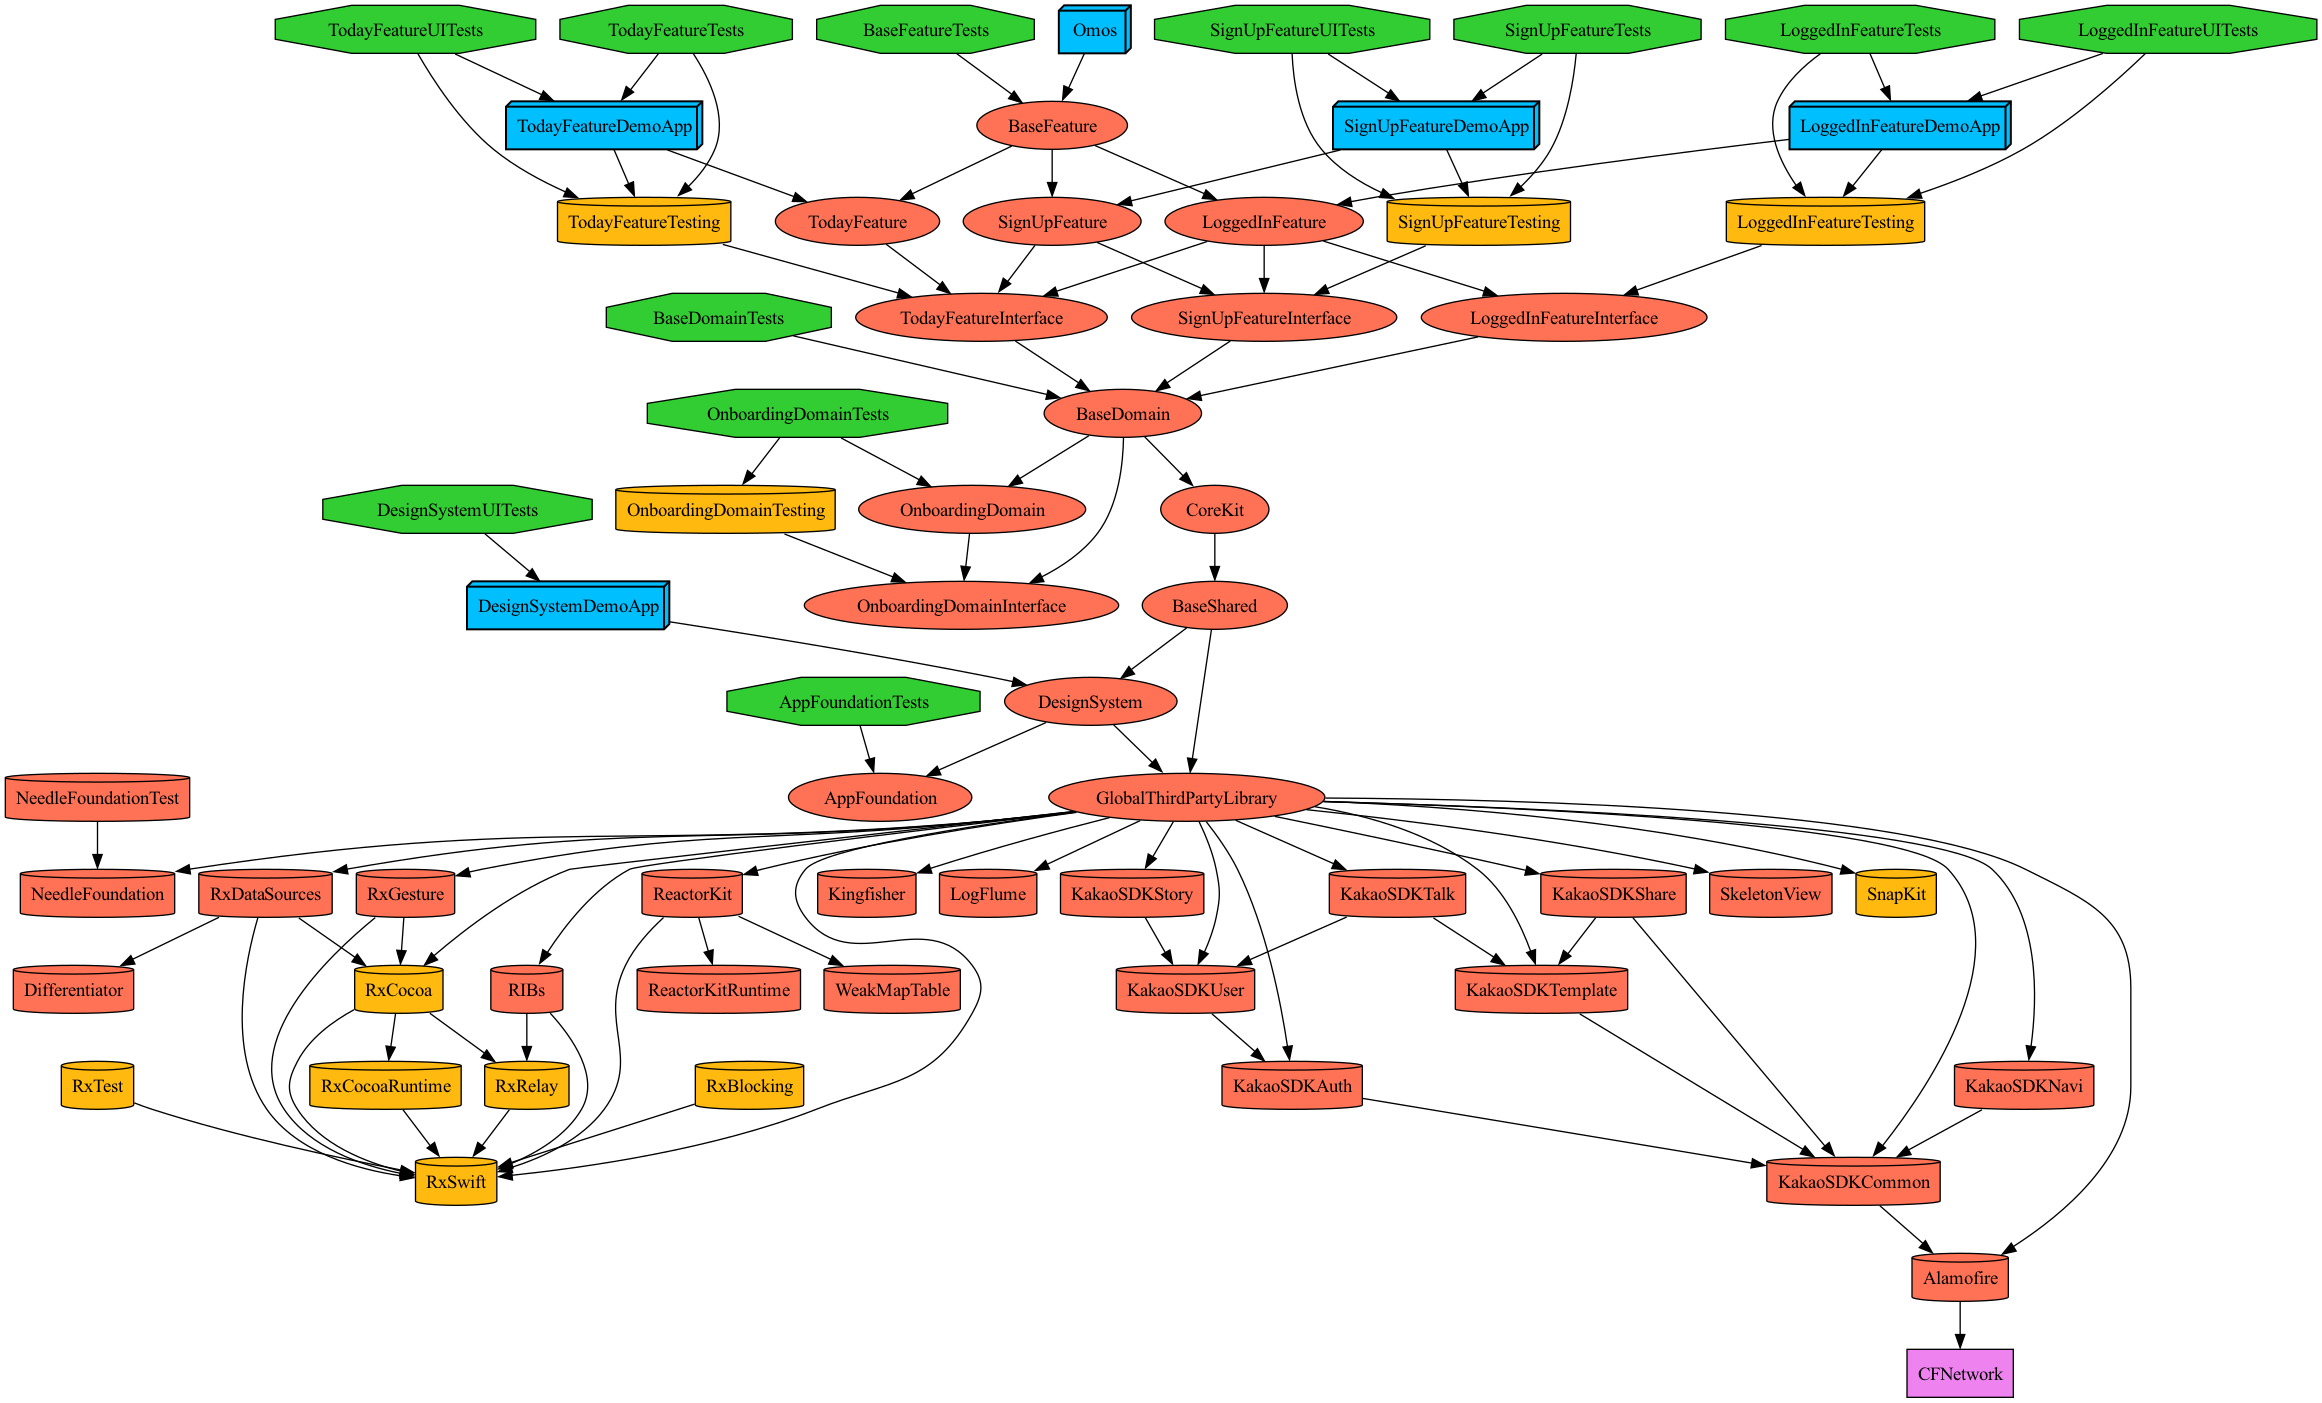
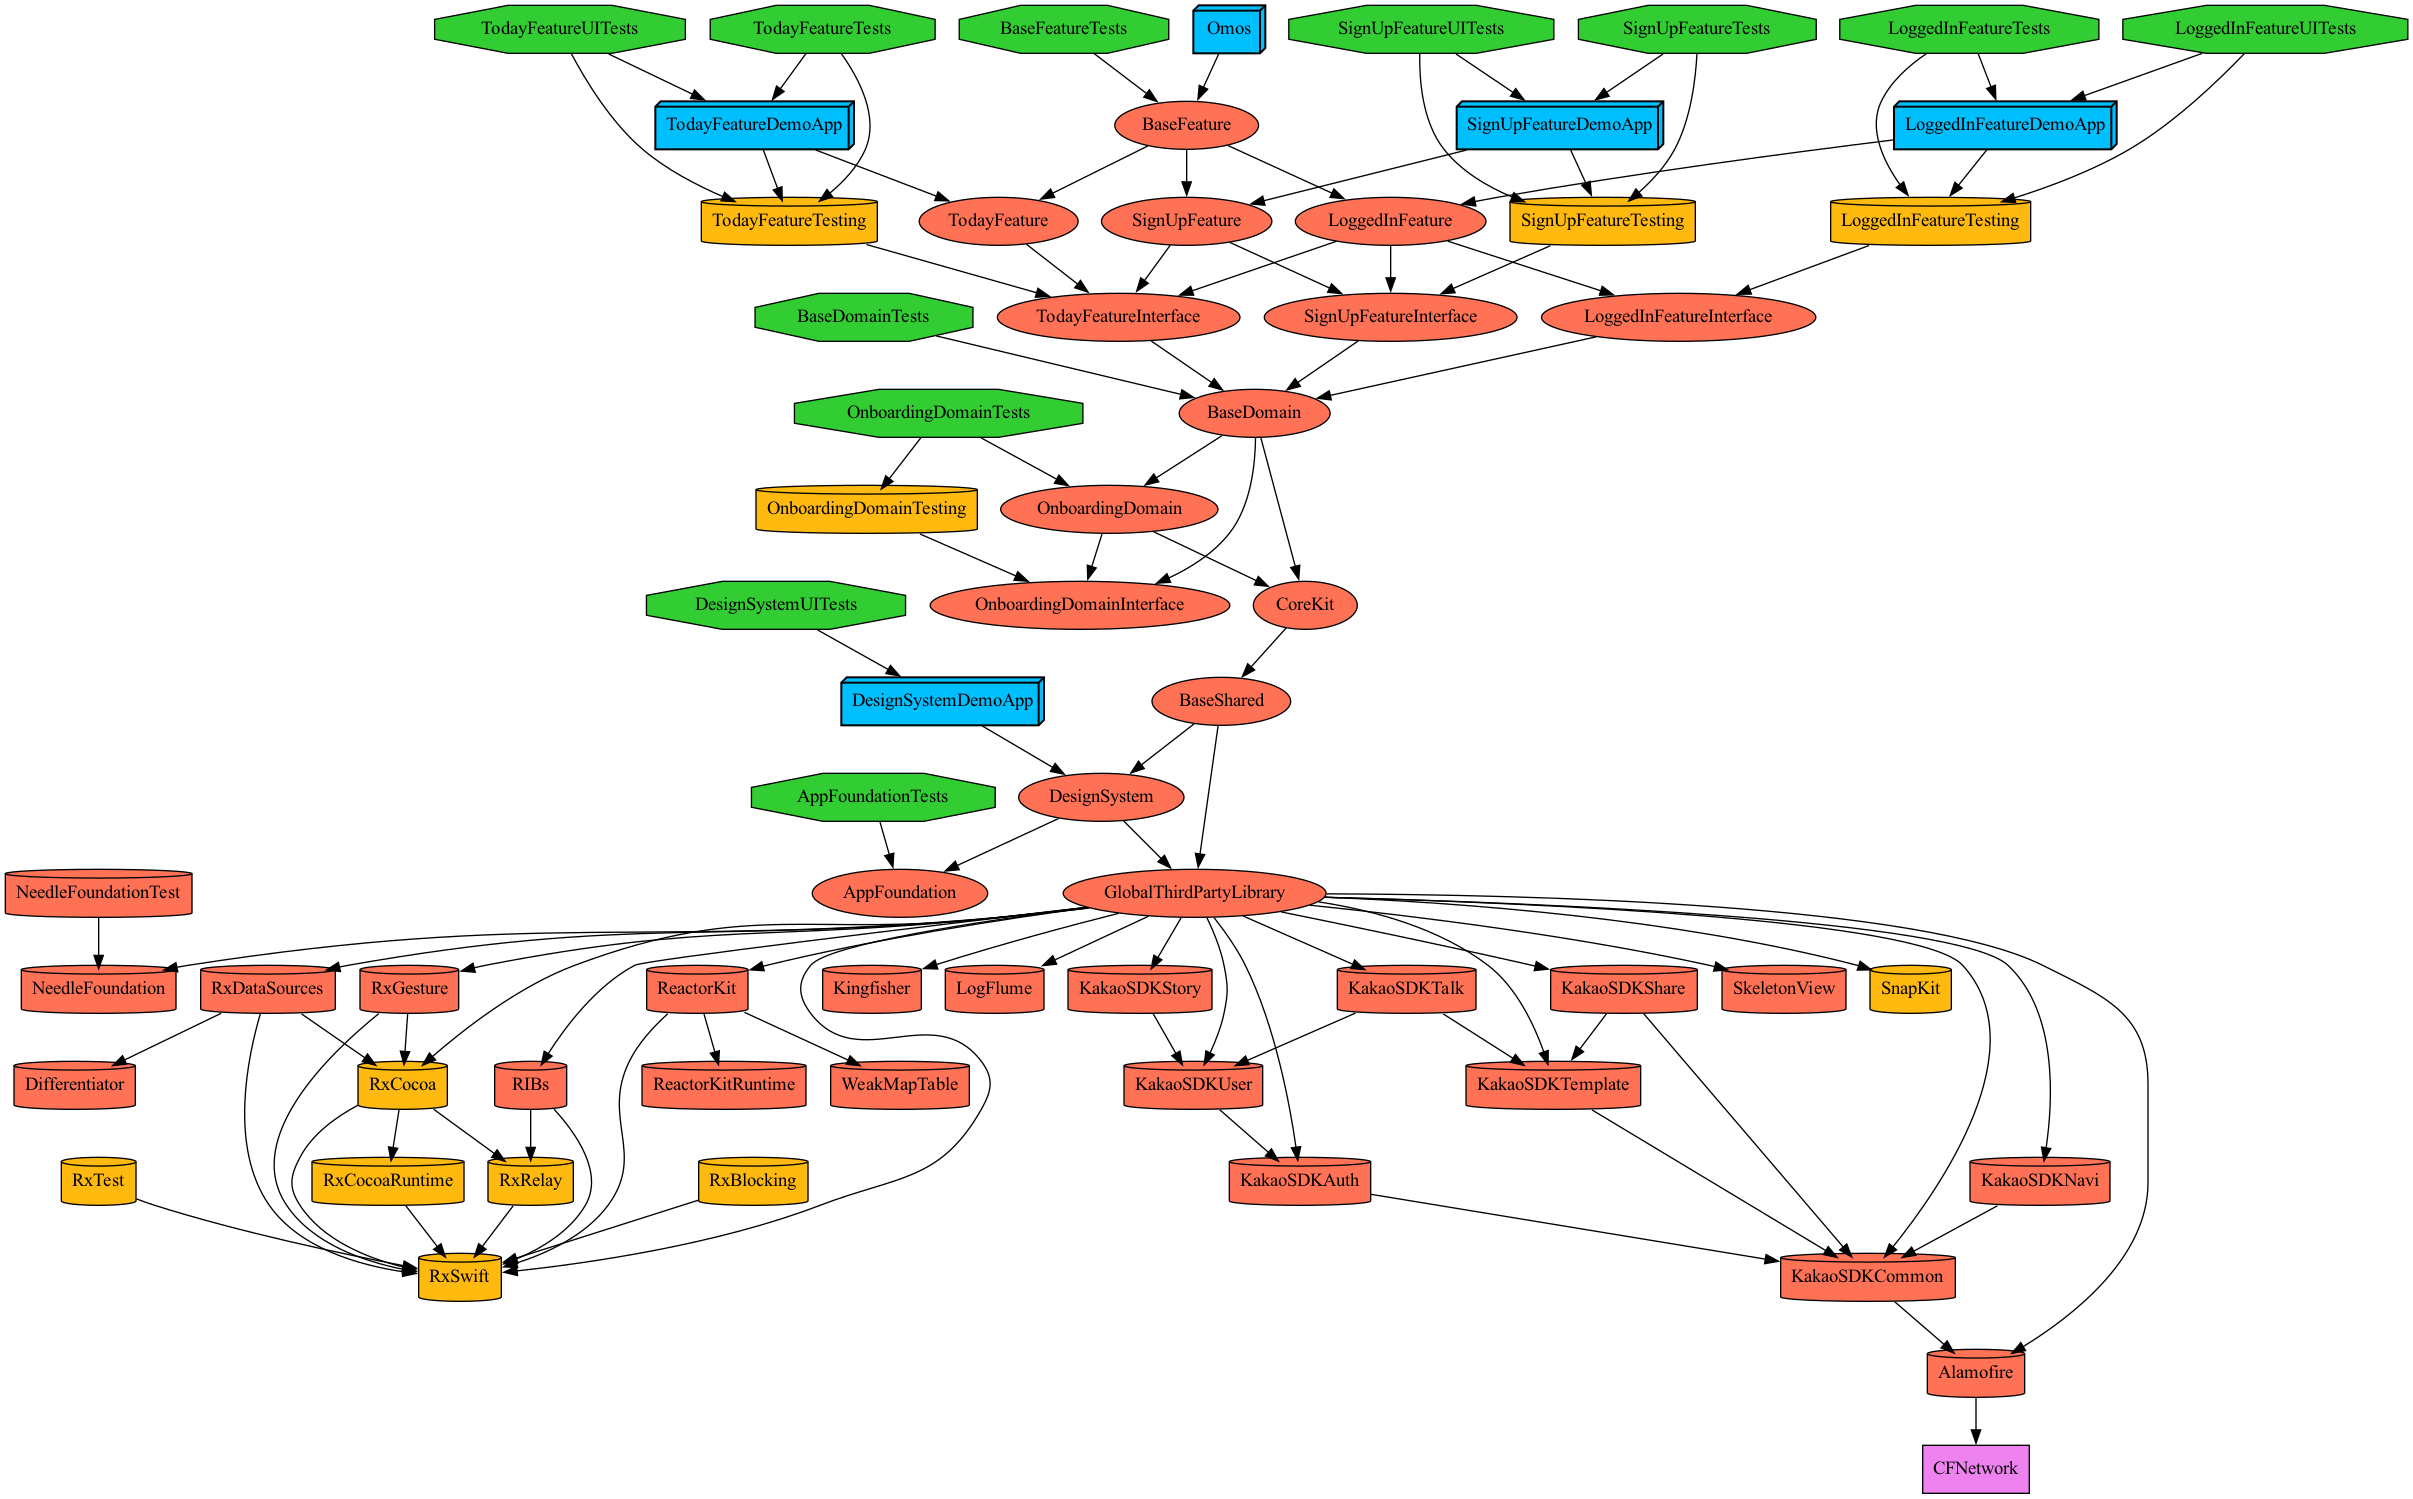
[v1.0.0][ 🛠 - String 임시방편, + domain interface 써드 연결  ]
그래프 변경

Changed region(s): [[0.0, 0.0, 1.0, 0.8888], [0.7132, 0.7356, 0.9302, 1.0], [0.6512, 0.7969, 0.6822, 0.8275]]

diff --git a/Projects/Shared/DesignSystem/Derived/Sources/TuistStrings+DesignSystem.swift b/Projects/Shared/DesignSystem/Derived/Sources/TuistStrings+DesignSystem.swift
@@ -21,29 +21,27 @@ public enum DesignSystemStrings {
   }
 
   public enum Onboarding {
-    /// 
+    /// sad
     public static let email = DesignSystemStrings.tr("Localizable", "onboarding.email")
-    /// 
+    /// sd
     public static let emailwarning = DesignSystemStrings.tr("Localizable", "onboarding.emailwarning")
-    /// 
+    /// kakao
     public static let kakao = DesignSystemStrings.tr("Localizable", "onboarding.kakao")
-    /// 
+    /// asd
     public static let loggedIn = DesignSystemStrings.tr("Localizable", "onboarding.loggedIn")
-    /// 
-    public static let loginButton = DesignSystemStrings.tr("Localizable", "onboarding.loginButton")
-    /// 
+    /// sad
     public static let nickname = DesignSystemStrings.tr("Localizable", "onboarding.nickname")
-    /// 
+    /// sadsad
     public static let nicknameWarning = DesignSystemStrings.tr("Localizable", "onboarding.nicknameWarning")
-    /// 
+    /// sad
     public static let password = DesignSystemStrings.tr("Localizable", "onboarding.password")
-    /// 
+    /// asd
     public static let passwordwarning = DesignSystemStrings.tr("Localizable", "onboarding.passwordwarning")
-    /// 
+    /// sad
     public static let repasswordInvalidation = DesignSystemStrings.tr("Localizable", "onboarding.repasswordInvalidation")
-    /// 
+    /// asd
     public static let sendCertificationEmail = DesignSystemStrings.tr("Localizable", "onboarding.sendCertificationEmail")
-    /// 
+    /// asddsa
     public static let signUp = DesignSystemStrings.tr("Localizable", "onboarding.signUp")
   }
 }

diff --git a/Tuist/Dependencies.swift b/Tuist/Dependencies.swift
@@ -33,6 +33,9 @@ let dependencies = Dependencies(
         productTypes: [:
 //            "RxSwift": .staticFramework,
 //            "RxCocoa": .staticFramework,
+//            "RxRelay": .staticFramework,
+//            "RxCocoaRunTime": .staticFramework,
+//            "RxTest": .staticFramework,
 //            "LogFlume" : .staticFramework,
 //            "NeedleFoundation" : .staticFramework,
 //            "RxDataSources" : .staticFramework,

diff --git a/Projects/Domain/OnboardingDomain/Project.swift b/Projects/Domain/OnboardingDomain/Project.swift
@@ -6,5 +6,10 @@ let project = Project.makeModule(
     name: ModulePaths.Domain.OnboardingDomain.rawValue,
     product: .staticLibrary,
     targets: [.interface, .testing, .unitTest],
-    internalDependencies: []
+    internalDependencies: [
+        
+    ],
+    interfaceDependencies: [
+        .core(target: .CoreKit)
+    ]
 )

diff --git a/Projects/Shared/DesignSystem/Project.swift b/Projects/Shared/DesignSystem/Project.swift
@@ -12,3 +12,4 @@ let project = Project.makeModule(
     ],
     resources: ["Resources/**"]
 )
+
